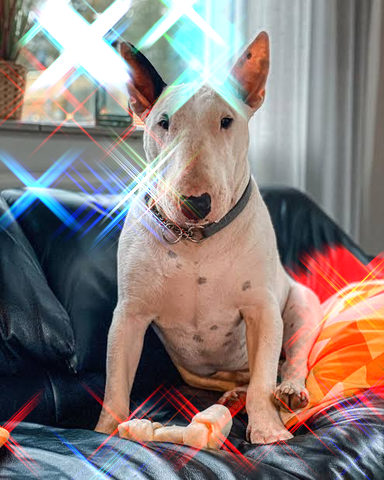
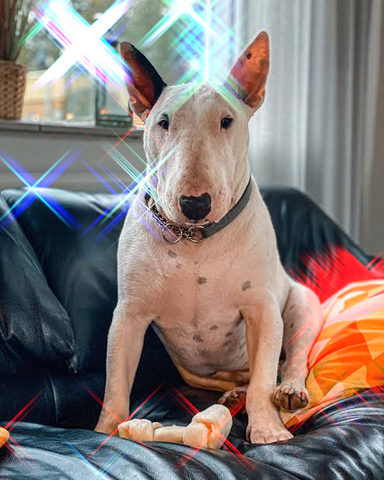
feat(starburst): add limit on how many pixels radiate
Every pixel above the threshold sends out spikes, so a low threshold floods a large bright area
(a window, white fur) with light. `limit` caps the share of pixels that radiate, brightest first,
by raising the threshold just enough; 1 (the default) is no cap, so existing recipes are
unchanged. The threshold doc now says why it floods and points to the cap. The example uses it.

diff --git a/src/photo_fx/effects/starburst/effect.py b/src/photo_fx/effects/starburst/effect.py
@@ -34,8 +34,19 @@ class StarburstParams(EffectParams):
         min=0,
         max=0.99,
         doc="The brightness (0..1, per channel) where a spike starts: only values above it make light, rising to "
-        "full at 1. Raising it limits the spikes to the brightest points; lowered, large bright areas flood the "
-        "picture with light.",
+        "full at 1. Raising it limits the spikes to the brightest points. Every pixel above it sends out spikes, so "
+        "at a low threshold a large bright area (a window, a sky, white fur) floods the picture with light: raise "
+        "the threshold, or cap the number of points with `limit`.",
+    )
+    limit: float = param(
+        1.0,
+        unit="fraction",
+        min=0,
+        max=1,
+        doc="The most pixels that send out spikes, as a share of all the picture's pixels, the brightest first: the "
+        "threshold is raised just enough to keep to it (never above 0.99, so a picture with more than this share "
+        "of near-white pixels still lights those). 1 = no cap, 0.001 = at most one pixel in a thousand, 0 = none. "
+        "Lower it to keep a low `threshold` from flooding large bright areas.",
     )
     amount: float = param(
         0.8,
@@ -63,14 +74,14 @@ class StarburstParams(EffectParams):
 @effect(category="light", params=StarburstParams)
 def starburst(rgb: np.ndarray, params: StarburstParams) -> np.ndarray:
     """Diffraction spikes: what is brighter than `threshold` gets `rays` thin lines of light, tinted `color` and
-    screened over the picture by `amount`.
+    screened over the picture by `amount`. `limit` caps how many pixels count as bright.
 
     Each spike is one px wide, starts at the point at full brightness and fades linearly to nothing at `length` x the
     picture's diagonal; they leave the point at equal angles, the first at `angle`. Light is only drawn from points
     inside the picture, so nothing enters from beyond its edge. The picture only ever gets brighter, and black stays
     black.
     """
-    if params.amount == 0:
+    if params.amount == 0 or params.limit == 0:
         return rgb.copy()
     reach = params.length * float(np.hypot(*rgb.shape[:2]))  # the spike fades to nothing at this distance, in px
     half = int(np.ceil(reach))
@@ -86,7 +97,12 @@ def starburst(rgb: np.ndarray, params: StarburstParams) -> np.ndarray:
         kernel = np.maximum(kernel, thin * fade)
     total = kernel.sum()
     kernel /= total  # `convolve` takes weights adding up to 1; the sum comes back below
-    bright = highlights(rgb, params.threshold)
+    threshold = params.threshold
+    if params.limit < 1:  # raise the threshold to the brightness that only `limit` of the pixels exceed
+        allowed = int(params.limit * rgb.shape[0] * rgb.shape[1])
+        brightest = np.partition(rgb.max(axis=-1).ravel(), -(allowed + 1))[-(allowed + 1)]
+        threshold = min(max(threshold, float(brightest)), 0.99)  # constant: 0.99, the highest threshold there is
+    bright = highlights(rgb, threshold)
     # One px of black round the picture, so that `convolve`'s 'nearest' edge extends black and not the picture's own
     # border: no light comes in from beyond the edge.
     framed = np.pad(bright, ((1, 1), (1, 1), (0, 0)))

diff --git a/tests/effects/starburst/test_starburst.py b/tests/effects/starburst/test_starburst.py
@@ -184,3 +184,36 @@ def test_color_tints_the_spikes(color: str | tuple[float, ...], expected: tuple[
     # 10 px right of the point a spike of a white point has light 1 - 10 / reach in every channel
     reach = 0.2 * DIAGONAL
     np.testing.assert_allclose(out[MIDDLE, MIDDLE + 10], np.array(expected) * (1 - 10 / reach), atol=2e-5)
+
+
+def test_limit_keeps_a_large_bright_area_from_flooding_while_the_brightest_point_still_shines() -> None:
+    """A block of 0.9 (16% of the pixels) and one white point. At threshold 0.5 every block pixel radiates and
+    the area is wrapped in light; with `limit` of 1% only the white point radiates."""
+    picture = np.zeros((SIZE, SIZE, 3), np.float32)
+    picture[60:140, 60:140] = 0.9
+    picture[30, 170] = 1.0
+    beside_the_block = (100, slice(145, 155), 0)  # right of the block, where its pixels' spikes run to the right
+    beside_the_point = (30, slice(175, 185), 0)
+    settings = {"rays": 4, "length": 0.1, "amount": 1.0, "threshold": 0.5}
+    flooded = registry.apply(NAME, picture, **settings)
+    capped = registry.apply(NAME, picture, limit=0.01, **settings)
+    assert flooded[beside_the_block].min() > 0.05
+    np.testing.assert_array_equal(capped[beside_the_block], 0.0)
+    assert capped[beside_the_point].min() > 0.05
+
+
+@pytest.mark.parametrize(
+    ("limit", "shining"),
+    [(0.0, []), (0.00003, [0]), (0.00006, [0, 1]), (1.0, [0, 1, 2])],
+    ids=["none", "one pixel of three", "two pixels of three", "no cap"],
+)
+def test_limit_lets_only_that_share_of_the_pixels_radiate_the_brightest_first(limit: float, shining: list[int]) -> None:
+    """Three points of different brightness in a picture of 40401 pixels: a limit of 0.00003 allows one pixel."""
+    rows = [30, 100, 170]  # brightest first
+    picture = np.zeros((SIZE, SIZE, 3), np.float32)
+    for row, value in zip(rows, (1.0, 0.9, 0.8), strict=True):
+        picture[row, 30] = value
+    out = registry.apply(NAME, picture, rays=4, length=0.1, amount=1.0, threshold=0.0, limit=limit)
+    for index, row in enumerate(rows):
+        spike = out[row, 35:45, 0]  # to the right of the point
+        assert bool(spike.min() > 0.02) is (index in shining)
